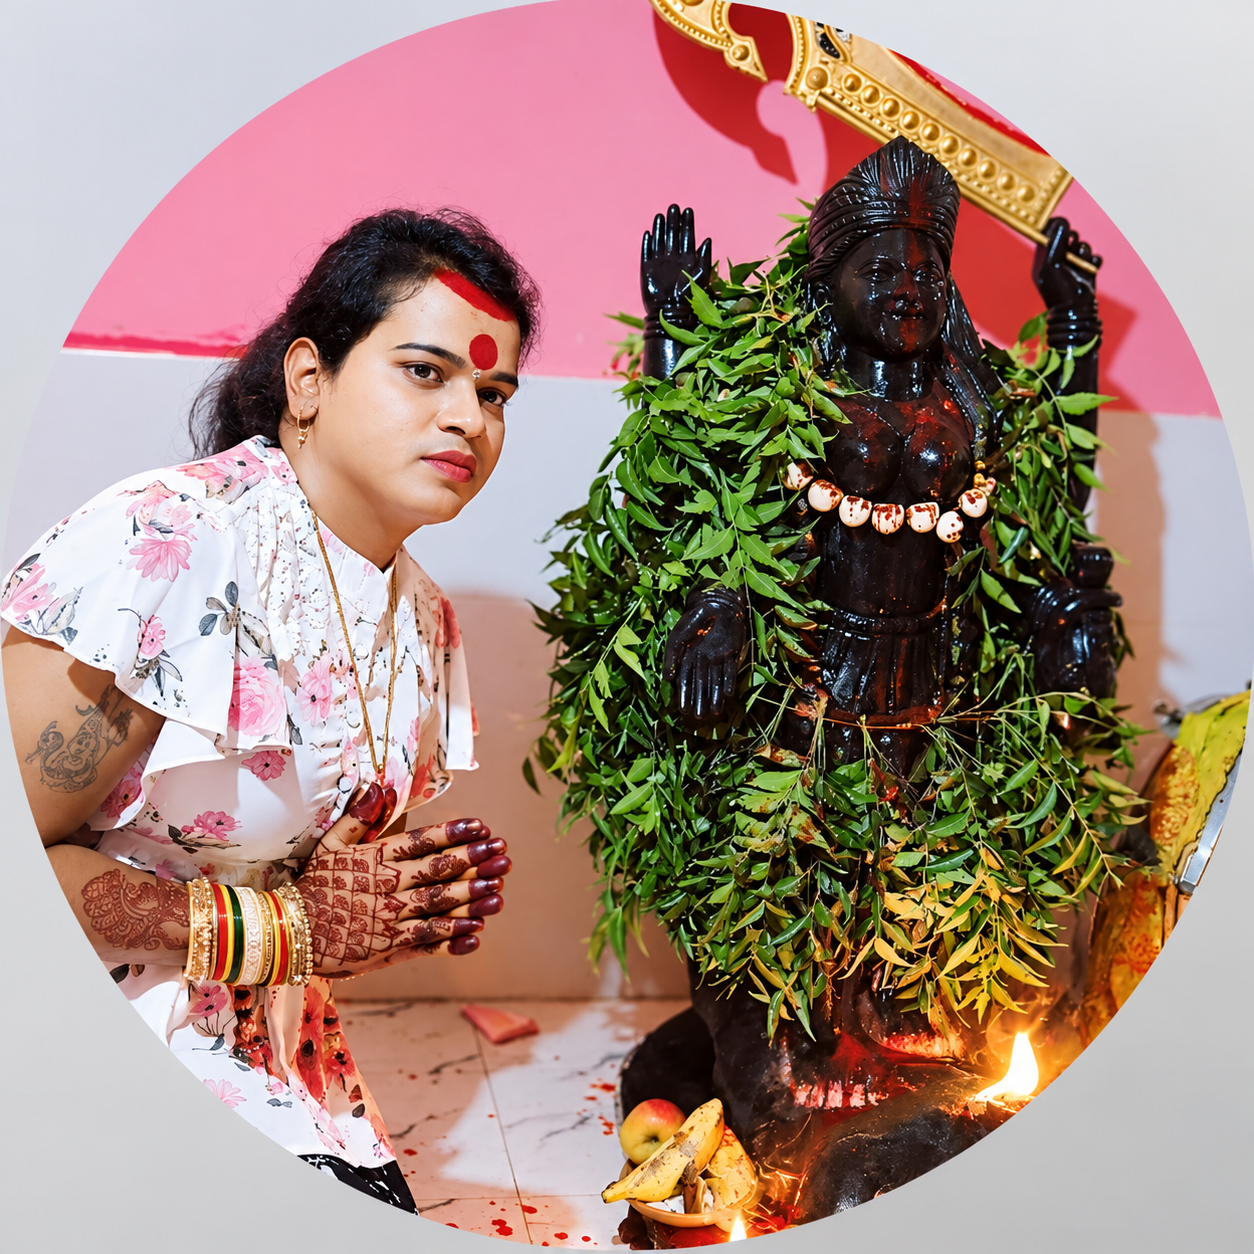
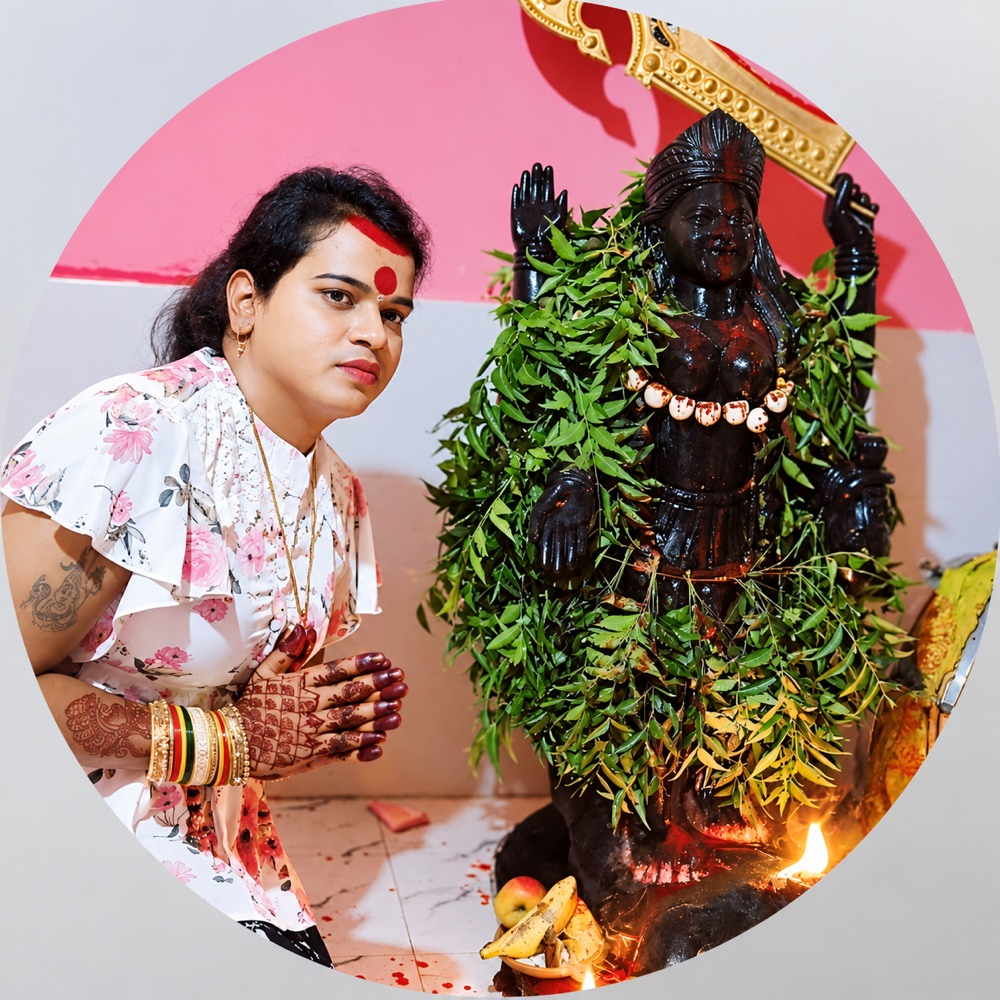
Add technical SEO: meta/OG tags, canonical, JSON-LD, sitemap, robots
Compress hero/about photos (2.4MB -> ~300KB), add 1200x630 social image,
set real image dimensions, and add Vercel security/caching headers.

Changed region(s): [[0.775, 0.713, 0.806, 0.775]]

diff --git a/index.html b/index.html
@@ -1,25 +1,187 @@
 <!DOCTYPE html>
-<html lang="en">
+<html lang="en-IN">
 <head>
 <meta charset="UTF-8">
 <meta name="viewport" content="width=device-width, initial-scale=1">
-<title>Guru Maa Astrology | Vedic Astrology &amp; Spiritual Guidance</title>
-<meta name="description" content="Kinner Guru Maa offers Vedic astrology consultations and sacred Kinnar blessings for love, marriage, family, career and business problems. Awarded by international astrology bodies. Book a private consultation today.">
-<meta name="robots" content="index, follow">
+<title>Guru Maa Astrology | Kinner Guru Maa – Vedic Astrologer</title>
+<meta name="description" content="Consult Kinner Guru Maa, an award-winning Vedic astrologer, for love, marriage, family, career and business problems. Private kundli readings and remedies by call, WhatsApp or Telegram.">
+<meta name="robots" content="index, follow, max-image-preview:large">
+<link rel="canonical" href="https://gurumaaastrology.com/">
+<meta name="author" content="Kinner Guru Maa">
 <meta name="theme-color" content="#6B1420">
 
 <meta property="og:type" content="website">
-<meta property="og:title" content="Guru Maa Astrology | Kinner Guru Maa | Vedic Astrology &amp; Spiritual Guidance">
-<meta property="og:description" content="Vedic astrology consultations and sacred Kinnar blessings for love, marriage, family, career and business problems.">
-<meta property="og:image" content="images/guru-maa.jpg">
+<meta property="og:site_name" content="Guru Maa Astrology">
+<meta property="og:locale" content="en_IN">
+<meta property="og:url" content="https://gurumaaastrology.com/">
+<meta property="og:title" content="Guru Maa Astrology | Kinner Guru Maa – Vedic Astrologer">
+<meta property="og:description" content="Consult Kinner Guru Maa, an award-winning Vedic astrologer, for love, marriage, family, career and business problems. Private kundli readings and remedies by call, WhatsApp or Telegram.">
+<meta property="og:image" content="https://gurumaaastrology.com/images/og-image.jpg">
+<meta property="og:image:width" content="1200">
+<meta property="og:image:height" content="630">
+<meta property="og:image:alt" content="Kinner Guru Maa performing a sacred puja">
+<meta name="twitter:card" content="summary_large_image">
+<meta name="twitter:title" content="Guru Maa Astrology | Kinner Guru Maa – Vedic Astrologer">
+<meta name="twitter:description" content="Consult Kinner Guru Maa, an award-winning Vedic astrologer, for love, marriage, family, career and business problems. Private kundli readings and remedies by call, WhatsApp or Telegram.">
+<meta name="twitter:image" content="https://gurumaaastrology.com/images/og-image.jpg">
 
-<meta http-equiv="Content-Security-Policy" content="default-src 'self'; img-src 'self' data:; style-src 'self' 'unsafe-inline' https://fonts.googleapis.com; font-src https://fonts.gstatic.com; script-src 'self'; connect-src 'self'; base-uri 'self'; form-action 'self'; frame-ancestors 'self';">
+<meta http-equiv="Content-Security-Policy" content="default-src 'self'; img-src 'self' data:; style-src 'self' 'unsafe-inline' https://fonts.googleapis.com; font-src https://fonts.gstatic.com; script-src 'self'; connect-src 'self'; base-uri 'self'; form-action 'self';">
 
 <link rel="icon" type="image/svg+xml" href="images/favicon.svg">
 <link rel="preconnect" href="https://fonts.googleapis.com">
 <link rel="preconnect" href="https://fonts.gstatic.com" crossorigin>
 <link rel="stylesheet" href="https://fonts.googleapis.com/css2?family=Cormorant+Garamond:ital,wght@0,500;0,600;0,700;1,500&amp;family=Karla:wght@400;500;600;700;800&amp;display=swap">
 <link rel="stylesheet" href="css/styles.css">
+<script type="application/ld+json">
+{
+  "@context": "https://schema.org",
+  "@graph": [
+    {
+      "@type": "WebSite",
+      "@id": "https://gurumaaastrology.com/#website",
+      "url": "https://gurumaaastrology.com/",
+      "name": "Guru Maa Astrology",
+      "inLanguage": "en-IN"
+    },
+    {
+      "@type": "ProfessionalService",
+      "@id": "https://gurumaaastrology.com/#business",
+      "name": "Guru Maa Astrology",
+      "alternateName": "Kinner Guru Maa",
+      "url": "https://gurumaaastrology.com/",
+      "image": "https://gurumaaastrology.com/images/og-image.jpg",
+      "logo": "https://gurumaaastrology.com/images/favicon.svg",
+      "description": "Consult Kinner Guru Maa, an award-winning Vedic astrologer, for love, marriage, family, career and business problems. Private kundli readings and remedies by call, WhatsApp or Telegram.",
+      "telephone": "+91-9929936478",
+      "email": "Astrologerkinnergurumaaji@gmail.com",
+      "priceRange": "$$",
+      "areaServed": {
+        "@type": "Country",
+        "name": "India"
+      },
+      "sameAs": [
+        "https://t.me/kinnergurumaa"
+      ],
+      "founder": {
+        "@type": "Person",
+        "name": "Kinner Guru Maa",
+        "jobTitle": "Vedic Astrologer"
+      },
+      "knowsAbout": [
+        "Vedic astrology",
+        "Kundli analysis",
+        "Kundli matching",
+        "Vastu",
+        "Remedial rituals"
+      ],
+      "hasOfferCatalog": {
+        "@type": "OfferCatalog",
+        "name": "Astrology services",
+        "itemListElement": [
+          {
+            "@type": "Offer",
+            "itemOffered": {
+              "@type": "Service",
+              "name": "Love Problem"
+            }
+          },
+          {
+            "@type": "Offer",
+            "itemOffered": {
+              "@type": "Service",
+              "name": "Love Marriage"
+            }
+          },
+          {
+            "@type": "Offer",
+            "itemOffered": {
+              "@type": "Service",
+              "name": "Lost Love Back"
+            }
+          },
+          {
+            "@type": "Offer",
+            "itemOffered": {
+              "@type": "Service",
+              "name": "Ex Love Back"
+            }
+          },
+          {
+            "@type": "Offer",
+            "itemOffered": {
+              "@type": "Service",
+              "name": "Relationship Problem"
+            }
+          },
+          {
+            "@type": "Offer",
+            "itemOffered": {
+              "@type": "Service",
+              "name": "Divorce Problem"
+            }
+          },
+          {
+            "@type": "Offer",
+            "itemOffered": {
+              "@type": "Service",
+              "name": "Husband Wife Problem"
+            }
+          },
+          {
+            "@type": "Offer",
+            "itemOffered": {
+              "@type": "Service",
+              "name": "Family Problem"
+            }
+          },
+          {
+            "@type": "Offer",
+            "itemOffered": {
+              "@type": "Service",
+              "name": "Financial Problem"
+            }
+          },
+          {
+            "@type": "Offer",
+            "itemOffered": {
+              "@type": "Service",
+              "name": "Job Problem"
+            }
+          },
+          {
+            "@type": "Offer",
+            "itemOffered": {
+              "@type": "Service",
+              "name": "Business Problem"
+            }
+          },
+          {
+            "@type": "Offer",
+            "itemOffered": {
+              "@type": "Service",
+              "name": "Astrology Specialist"
+            }
+          },
+          {
+            "@type": "Offer",
+            "itemOffered": {
+              "@type": "Service",
+              "name": "Career Problem"
+            }
+          },
+          {
+            "@type": "Offer",
+            "itemOffered": {
+              "@type": "Service",
+              "name": "Extra Marital Affair"
+            }
+          }
+        ]
+      }
+    }
+  ]
+}
+</script>
 </head>
 <body>
 
@@ -91,7 +253,7 @@
 
       <div class="hero-media">
         <div class="hero-media-frame">
-          <img src="images/guru-maa.jpg" alt="Kinner Guru Maa performing a sacred puja" width="640" height="800">
+          <img src="images/guru-maa.jpg" alt="Kinner Guru Maa, Vedic astrologer, performing a sacred puja" width="1000" height="1000" fetchpriority="high" decoding="async">
         </div>
         <div class="hero-media-badge">
           <svg viewBox="0 0 24 24" fill="none" stroke-width="1.6"><circle cx="12" cy="9" r="6"/><path d="M8.5 14.5L7 22l5-3 5 3-1.5-7.5"/></svg>
@@ -105,7 +267,7 @@
   <section class="about" id="about">
     <div class="container">
       <div class="about-media">
-        <img src="images/guru-maa1.jpg" alt="Kinner Guru Maa in devoted spiritual practice" width="600" height="750" loading="lazy">
+        <img src="images/guru-maa1.jpg" alt="Kinner Guru Maa in devoted spiritual practice" width="1000" height="1000" loading="lazy" decoding="async">
       </div>
       <div class="about-copy">
         <p class="eyebrow">About Kinner Guru Maa</p>
@@ -272,7 +434,7 @@
 
       <div class="cert-grid">
         <figure class="cert-card">
-          <img src="images/certificates/cert-1.webp" alt="World Astrology Forum award-winning certificate" width="600" height="800" loading="lazy">
+          <img src="images/certificates/cert-1.webp" alt="World Astrology Forum award-winning certificate" width="1448" height="2048" loading="lazy" decoding="async">
           <figcaption>
             <div class="cert-org">World Astrology Forum</div>
             <div class="cert-title">Award-Winning Recognition</div>
@@ -281,7 +443,7 @@
         </figure>
         
         <figure class="cert-card">
-          <img src="images/certificates/cert-3.webp" alt="Darahamihira Jyotish Puraskar certificate from International Astrology Federation Inc." width="600" height="800" loading="lazy">
+          <img src="images/certificates/cert-3.webp" alt="Darahamihira Jyotish Puraskar certificate from International Astrology Federation Inc." width="1448" height="2048" loading="lazy" decoding="async">
           <figcaption>
             <div class="cert-org">International Astrology Federation Inc.</div>
             <div class="cert-title">Darahamihira Jyotish Puraskar</div>
@@ -290,7 +452,7 @@
         </figure>
 
         <figure class="cert-card">
-          <img src="images/certificates/cert-2.webp" alt="Global Astrology Federation award-winning certificate" width="600" height="800" loading="lazy">
+          <img src="images/certificates/cert-2.webp" alt="Global Astrology Federation award-winning certificate" width="1448" height="2048" loading="lazy" decoding="async">
           <figcaption>
             <div class="cert-org">Global Astrology Federation</div>
             <div class="cert-title">Award-Winning Recognition</div>
